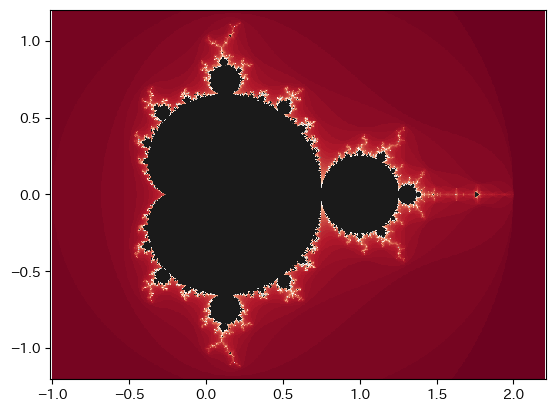
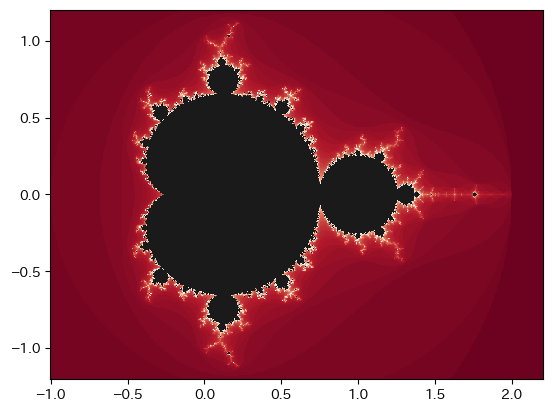
update

diff --git a/python/mandelbrot.html b/python/mandelbrot.html
@@ -65,7 +65,7 @@ x, y = np.meshgrid(np.linspace(-1, 2.2, 640), np.linspace(-1.2, 1.2, 480))
 z = vmandel(x + y * 1j)
 
 plt.pcolormesh(x, y, z, cmap='RdGy', vmin=0, vmax=M)
-plt.axis('equal')
+plt.axis('scaled')
 plt.show()
 </pre>
 
@@ -133,7 +133,7 @@ mandel(0.52 + 0.52j)
 
 <p>
 <!-- hhmts start -->
-Last modified: <time>2022-07-10 09:46:58 JST</time>
+Last modified: <time>2022-07-10 11:34:16 JST</time>
 <!-- hhmts end -->
 </p>
 </body>
